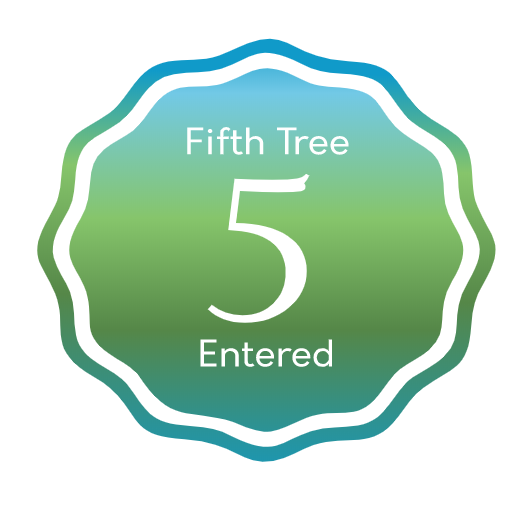
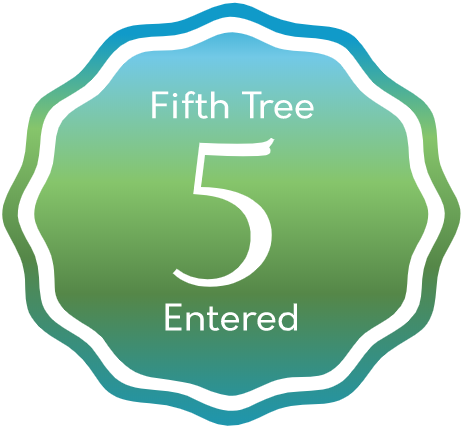
Uniform badge size
- Cropped badge images so that there is no inherent padding.
- Set resizeMode of the Image view to stretch so that the images
  will automatically be stretched to fit the Image view's dimensions.
- Added uniform margin to the Image views to cover for the inherent
  padding that was separating the badges.

diff --git a/src/components/Badge.tsx b/src/components/Badge.tsx
@@ -28,7 +28,11 @@ export function Badge(props: BadgeProps) {
     <View>
       <Image
         source={badgeImage}
-        style={{ height: BADGE_HEIGHT, width: BADGE_HEIGHT, opacity: 0.8 }}
+        style={{ height: BADGE_HEIGHT,
+                 width: BADGE_HEIGHT,
+                 opacity: 0.8,
+                 resizeMode: 'stretch',
+                 margin: 10 }}
       />
     </View>
   )
